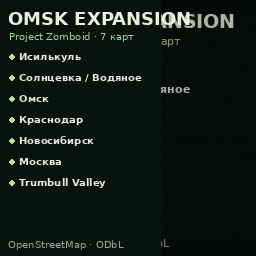
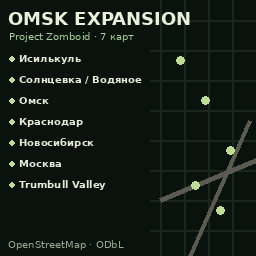
feat: add Trumbull Valley to map pack

diff --git a/CHANGELOG.md b/CHANGELOG.md
@@ -1,5 +1,13 @@
 # Changelog
 
+## 1.2.0
+
+- Added Trumbull Valley: 930 cells, 133 rooms, 60 buildings, 6 spawns.
+- 3 towns, 2 fairs and farms from a manifest-driven layout.
+- Map pack now has 7 maps / 4999 cells; Trumbull connects to Krasnodar.
+- New 256x256 preview with 7 map names.
+
+
 ## 1.1.0
 
 - Beautify pass on all six maps: benches, outdoor lamps and bins.

diff --git a/DIST_STATUS.md b/DIST_STATUS.md
@@ -4,8 +4,8 @@
 
 ```text
 folder: dist/omsk-expansion
-size:   ~5.7 GB
-cells:  4069
+size:   ~7.1 GB
+cells:  4999
 duplicate cells: 0
 unconnected maps: 0
 ```
@@ -14,6 +14,7 @@ Validation:
 
 ```text
 Isilkul           168 cells  ok
+Trumbull Valley   930 cells  ok
 Solntsevka        252 cells  ok
 Omsk              930 cells  ok
 Krasnodar         837 cells  ok

diff --git a/RELEASE.md b/RELEASE.md
@@ -1,4 +1,4 @@
-# Omsk Expansion 1.1.0
+# Omsk Expansion 1.2.0
 
 ## What's new
 
@@ -19,7 +19,7 @@ Moscow            868 cells
 ```
 
 ```text
-4069 cells, 0 duplicate cells, 0 unconnected maps
+4999 cells, 0 duplicate cells, 0 unconnected maps
 ```
 
 `map-save-audit` still reports a conservative upper bound above 90%; a real
